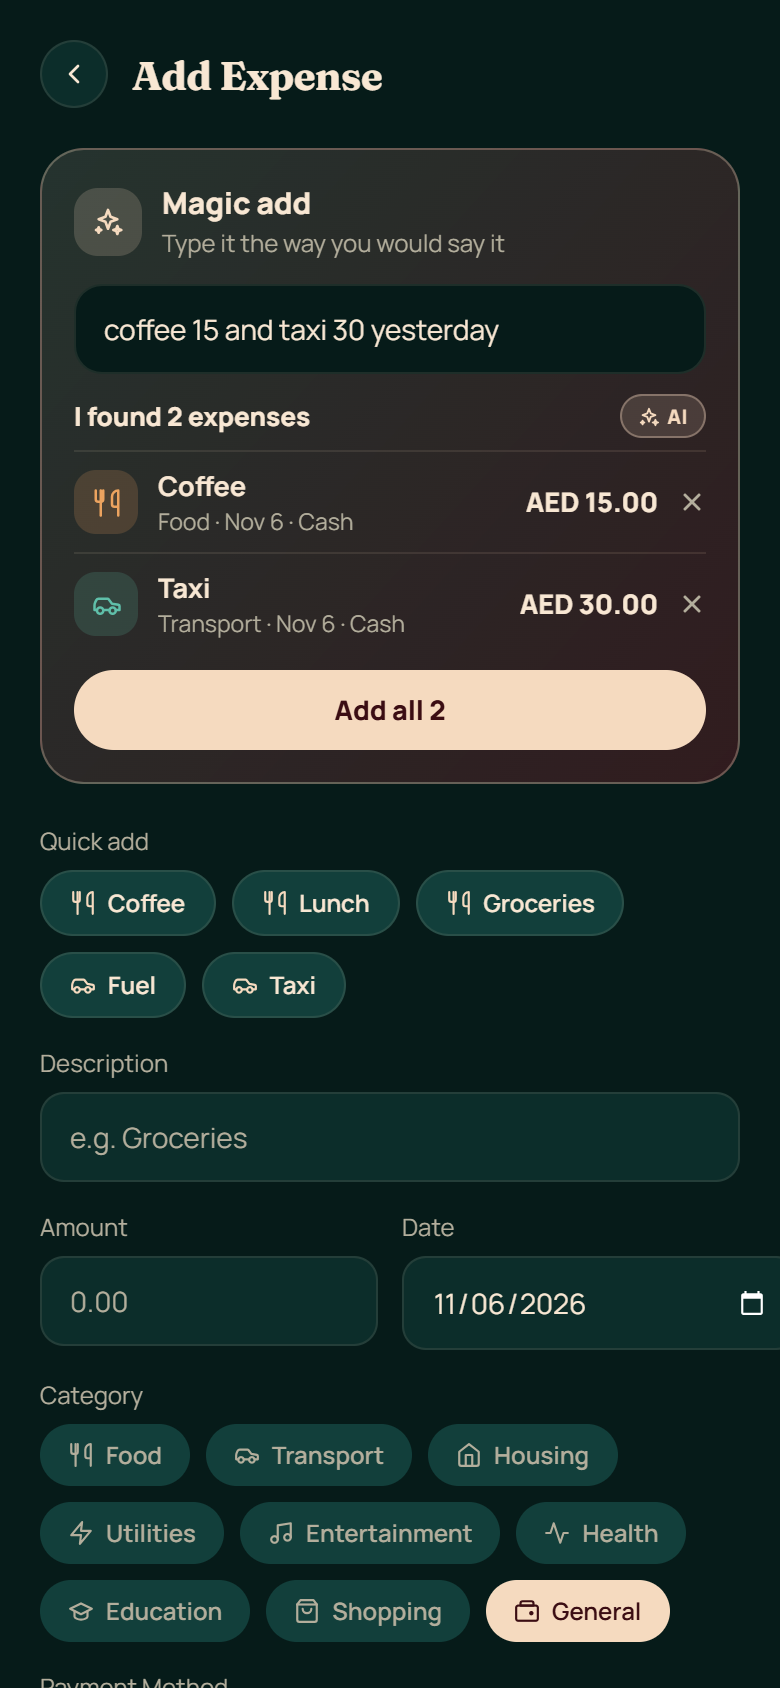
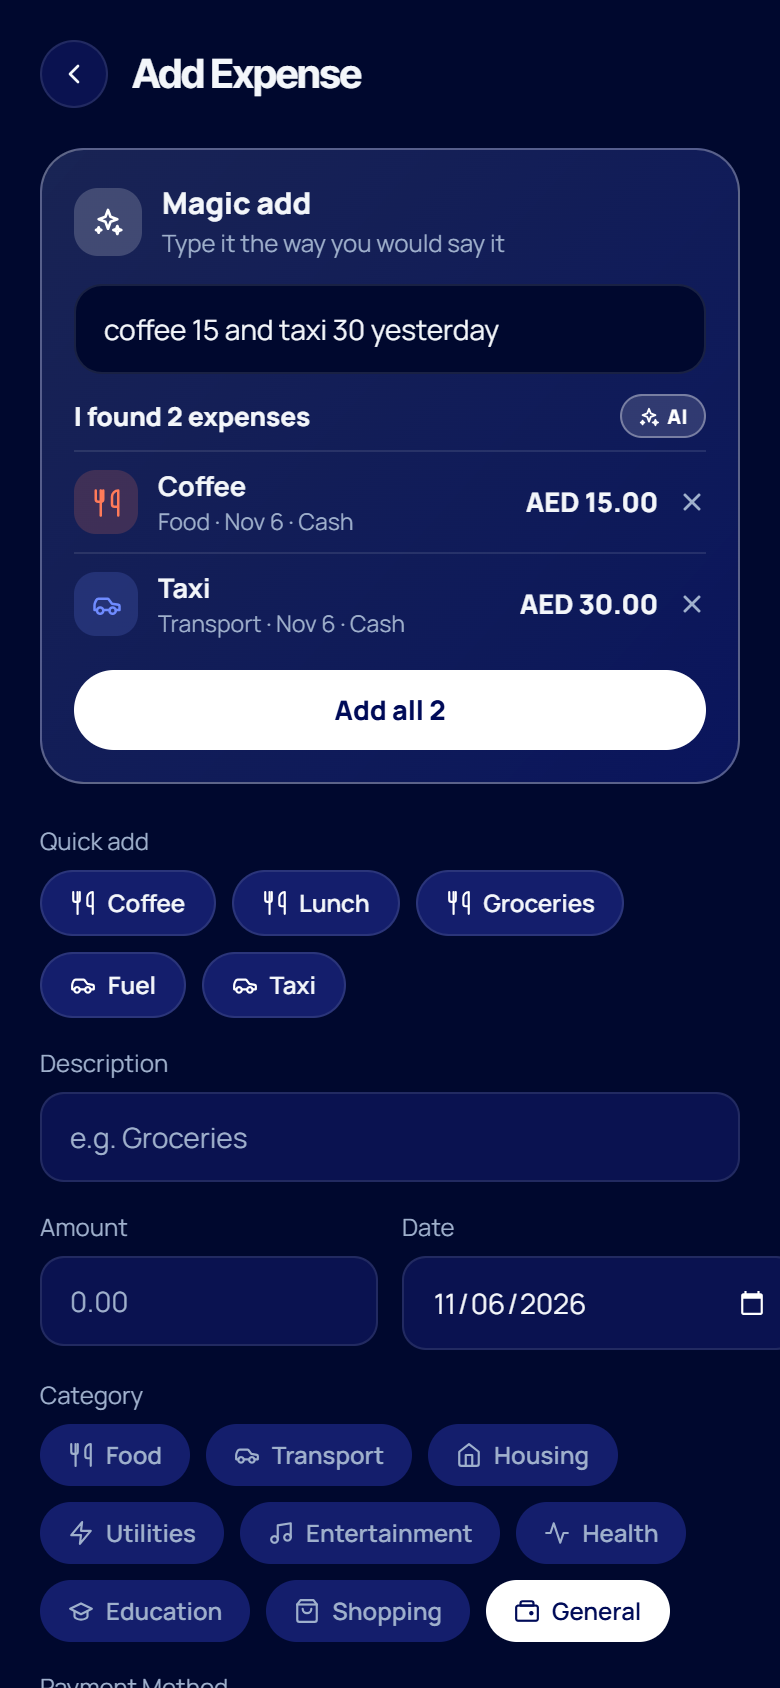
Restyle the app in a chalk, slate, midnight, royal and flare palette
Navy dark and chalk light schemes, royal hero card, flare red add button, tight sans display type for titles and amounts on web, recoloured category colours, app icons and login background, refreshed README screenshots.

diff --git a/mobile/src/theme/colors.ts b/mobile/src/theme/colors.ts
@@ -1,69 +1,75 @@
-// "Bordeaux & evergreen": a deep forest-green surface family, bordeaux for the hero moments, and warm cream for text
-// and primary actions (palette: bordeaux #6C151E, green #0F3D3A, cream #F5DABF). Every colour used by a screen comes
-// from here, so the whole app re-skins from this one file.
+// "Chalk, slate, midnight, royal, flare": a Swiss-style navy palette. Midnight and royal blue carry the surfaces and the
+// hero card, chalk and slate carry text, and flare red is kept for one loud accent (the add button). Palette: chalk
+// #FFFFFF / #E6EBF1, slate #A2B5CB / #6C829D, midnight #000B58 / #1A2258, royal #00139E / #1D2FB5, flare #FF1414 /
+// #FF6262. Every colour used by a screen comes from here, so the whole app re-skins from this one file.
 export const darkColors = {
-  bg: '#061b19',
-  surface: '#0c2d2a',
-  surface2: '#123f3b',
-  border: 'rgba(245,218,191,0.10)',
+  bg: '#00082e',
+  surface: '#0a1250',
+  surface2: '#141e6c',
+  border: 'rgba(230,235,241,0.11)',
   // Barely-there frosted fill for the glass-pill input fields: a solid `surface` reads as an opaque box; this stays
   // translucent so the auth background shows through faintly, matching the glass-card look.
-  fieldFill: 'rgba(245,218,191,0.06)',
-  text: '#f8e7d3',
-  textMuted: '#b3ae9c',
-  accent: '#f5dabf',
-  accentStrong: '#e9bf94',
-  accentContrast: '#3b0d13',
-  accent2: '#76d6b4',
-  danger: '#ff8f95',
-  dangerSoft: 'rgba(255,143,149,0.16)',
-  warn: '#f1bd6a',
-  success: '#7fd8a9',
-  // The AI surfaces (coach, magic add, ask) share one soft cream-to-bordeaux wash.
-  aiFrom: 'rgba(245,218,191,0.13)',
-  aiTo: 'rgba(140,28,42,0.32)',
-  heroFrom: '#8e1f2d',
-  heroTo: '#4d0d16',
-  tabBar: 'rgba(8,36,33,0.95)',
+  fieldFill: 'rgba(230,235,241,0.06)',
+  text: '#f3f6fa',
+  textMuted: '#9fb0cc',
+  accent: '#ffffff',
+  accentStrong: '#dfe6f1',
+  accentContrast: '#000b58',
+  accent2: '#8aa2ff',
+  // The one loud colour: the add button and its glow.
+  flare: '#ff1414',
+  flareStrong: '#d90f0f',
+  danger: '#ff6b6b',
+  dangerSoft: 'rgba(255,107,107,0.16)',
+  warn: '#ffc15c',
+  success: '#52deb0',
+  // The AI surfaces (coach, magic add, ask) share one soft periwinkle-to-royal wash.
+  aiFrom: 'rgba(138,162,255,0.18)',
+  aiTo: 'rgba(29,47,181,0.34)',
+  heroFrom: '#2539cc',
+  heroTo: '#00139e',
+  tabBar: 'rgba(7,15,72,0.95)',
 };
 
 export const lightColors = {
-  bg: '#fbf1e4',
-  surface: '#fffaf3',
-  surface2: '#f4e1ca',
-  border: 'rgba(108,21,30,0.11)',
-  fieldFill: 'rgba(108,21,30,0.04)',
-  text: '#2b0e12',
-  textMuted: '#7b5f58',
-  accent: '#6c151e',
-  accentStrong: '#52101a',
-  accentContrast: '#fff3e3',
-  accent2: '#0f3d3a',
-  danger: '#c0392b',
-  dangerSoft: 'rgba(192,57,43,0.12)',
-  warn: '#a45f00',
-  success: '#0f6b55',
-  aiFrom: 'rgba(108,21,30,0.11)',
-  aiTo: 'rgba(245,218,191,0.60)',
-  heroFrom: '#80202d',
-  heroTo: '#4d0d16',
-  tabBar: 'rgba(255,250,243,0.96)',
+  bg: '#eef2f7',
+  surface: '#ffffff',
+  surface2: '#e6ebf1',
+  border: 'rgba(0,11,88,0.10)',
+  fieldFill: 'rgba(0,11,88,0.04)',
+  text: '#000b58',
+  textMuted: '#52678b',
+  accent: '#00139e',
+  accentStrong: '#000b58',
+  accentContrast: '#ffffff',
+  accent2: '#1d2fb5',
+  flare: '#ff1414',
+  flareStrong: '#d90f0f',
+  danger: '#e01212',
+  dangerSoft: 'rgba(224,18,18,0.11)',
+  warn: '#a85d00',
+  success: '#0b7f58',
+  aiFrom: 'rgba(0,19,158,0.10)',
+  aiTo: 'rgba(162,181,203,0.38)',
+  heroFrom: '#1428b8',
+  heroTo: '#000b58',
+  tabBar: 'rgba(255,255,255,0.96)',
 };
 
 export type Colors = typeof darkColors;
 
 // One fixed colour per category, so a category looks the same on the donut chart, the history list and the filters.
-// Deliberately theme-invariant: warm, slightly muted jewel tones that sit well on both the green and cream backgrounds.
+// Deliberately theme-invariant: clear mid-tones that sit well on both the navy and the chalk backgrounds.
 export const CATEGORY_COLORS: Record<string, string> = {
-  Food: '#eca35f',
-  Transport: '#5fbfa9',
-  Housing: '#c79ad6',
-  Utilities: '#e6c66f',
-  Entertainment: '#f09db4',
-  Health: '#56c28f',
-  Education: '#8fb0d9',
-  Shopping: '#d9566a',
-  General: '#aa9f8e',
+  Food: '#ff7a59',
+  Transport: '#6f8bff',
+  Housing: '#a2b5cb',
+  Utilities: '#ffc857',
+  Entertainment: '#c58bff',
+  Health: '#4fdcae',
+  Education: '#4cc3ff',
+  Shopping: '#ff5c8a',
+  General: '#8394b3',
 };
 
 export function categoryColor(category: string): string {

diff --git a/mobile/src/screens/DashboardScreen.tsx b/mobile/src/screens/DashboardScreen.tsx
@@ -257,18 +257,18 @@ const makeStyles = (colors: Colors, topInset: number) => StyleSheet.create({
     boxShadow: `0px 12px 24px ${withAlpha(colors.heroFrom, 0.35)}`, elevation: 8,
   },
   hero: { borderRadius: 26, padding: 22, overflow: 'hidden' },
-  heroCircleA: { position: 'absolute', width: 190, height: 190, borderRadius: 95, right: -60, top: -80, backgroundColor: 'rgba(245,218,191,0.10)' },
-  heroCircleB: { position: 'absolute', width: 120, height: 120, borderRadius: 60, right: 40, bottom: -70, backgroundColor: 'rgba(245,218,191,0.07)' },
-  heroLabel: { color: 'rgba(245,218,191,0.80)', fontSize: 11, fontWeight: '800', letterSpacing: 1.2 },
-  heroValue: { color: '#fff1e0', fontSize: 38, fontWeight: '700', marginTop: 6, marginBottom: 18 },
-  heroTrack: { height: 8, borderRadius: 999, backgroundColor: 'rgba(245,218,191,0.22)', overflow: 'hidden' },
-  heroFill: { height: '100%', borderRadius: 999, backgroundColor: '#f5dabf' },
-  heroFillOver: { backgroundColor: '#ffb4c0' },
+  heroCircleA: { position: 'absolute', width: 190, height: 190, borderRadius: 95, right: -60, top: -80, backgroundColor: 'rgba(230,235,241,0.10)' },
+  heroCircleB: { position: 'absolute', width: 120, height: 120, borderRadius: 60, right: 40, bottom: -70, backgroundColor: 'rgba(230,235,241,0.07)' },
+  heroLabel: { color: 'rgba(230,235,241,0.80)', fontSize: 11, fontWeight: '800', letterSpacing: 1.2 },
+  heroValue: { color: '#ffffff', fontSize: 38, fontWeight: '800', marginTop: 6, marginBottom: 18 },
+  heroTrack: { height: 8, borderRadius: 999, backgroundColor: 'rgba(230,235,241,0.22)', overflow: 'hidden' },
+  heroFill: { height: '100%', borderRadius: 999, backgroundColor: '#ffffff' },
+  heroFillOver: { backgroundColor: '#ff8a8a' },
   heroMetaRow: { flexDirection: 'row', justifyContent: 'space-between', marginTop: 10 },
-  heroMeta: { color: 'rgba(245,218,191,0.85)', fontSize: 12 },
-  heroMetaStrong: { color: '#fff1e0', fontWeight: '800' },
+  heroMeta: { color: 'rgba(230,235,241,0.88)', fontSize: 12 },
+  heroMetaStrong: { color: '#ffffff', fontWeight: '800' },
   heroEmpty: { flexDirection: 'row', justifyContent: 'space-between', alignItems: 'center', flexWrap: 'wrap', gap: 6 },
-  heroLink: { color: '#fff1e0', fontWeight: '800', fontSize: 13, textDecorationLine: 'underline' },
+  heroLink: { color: '#ffffff', fontWeight: '800', fontSize: 13, textDecorationLine: 'underline' },
   coach: {
     flexDirection: 'row', alignItems: 'center', gap: 12, padding: 14, borderRadius: 20, marginBottom: 14,
     backgroundColor: colors.surface, borderWidth: 1, borderColor: withAlpha(colors.accent, 0.35),

diff --git a/mobile/src/hooks/useWebFont.ts b/mobile/src/hooks/useWebFont.ts
@@ -4,7 +4,7 @@ import { Platform } from 'react-native';
 const LINK_ID = 'auth-web-font';
 const STYLE_ID = 'app-web-font-style';
 
-// Loads Manrope (body) and Fraunces (display: titles and big amounts) from Google Fonts on web only — native (iOS/Android) keeps
+// Loads Manrope (body) and Inter Tight (display: titles and big amounts) from Google Fonts on web only — native (iOS/Android) keeps
 // the system font entirely untouched, so this can't affect the EAS/Android
 // build. It also sets Manrope as the font for every text element on web (react-native-web renders Text as
 // <div dir="auto">), so the whole app has one typeface instead of just the screens that opted in.
@@ -16,7 +16,7 @@ export function useWebFont() {
       link.id = LINK_ID;
       link.rel = 'stylesheet';
       link.href =
-        'https://fonts.googleapis.com/css2?family=Manrope:wght@400;500;600;700;800&family=Fraunces:opsz,wght@9..144,500;9..144,600;9..144,700&display=swap';
+        'https://fonts.googleapis.com/css2?family=Manrope:wght@400;500;600;700;800&family=Inter+Tight:wght@600;700;800&display=swap';
       document.head.appendChild(link);
     }
     if (!document.getElementById(STYLE_ID)) {
@@ -24,7 +24,7 @@ export function useWebFont() {
       style.id = STYLE_ID;
       style.textContent =
         "div[dir='auto']:not([data-display]), input, textarea, button { font-family: 'Manrope', system-ui, sans-serif !important; } " +
-        "[data-display] { font-family: 'Fraunces', Georgia, serif !important; letter-spacing: -0.01em; }";
+        "[data-display] { font-family: 'Inter Tight', 'Manrope', system-ui, sans-serif !important; letter-spacing: -0.025em; }";
       document.head.appendChild(style);
     }
   }, []);

diff --git a/mobile/src/components/DisplayText.tsx b/mobile/src/components/DisplayText.tsx
@@ -1,9 +1,10 @@
 import React from 'react';
 import { Platform, Text, TextProps } from 'react-native';
 
-// Serif display type for page titles and big amounts. On web it picks up Fraunces (see useWebFont); on native it
-// falls back to the platform serif, so no font files are bundled and the EAS build is untouched.
+// Display type for page titles and big amounts: tightly tracked, heavy grotesque. On web it picks up Inter Tight (see
+// useWebFont); on native it keeps the platform font with tighter tracking, so no font files are bundled and the EAS
+// build is untouched.
 export default function DisplayText({ style, ...rest }: TextProps) {
   const extra: Record<string, unknown> = Platform.OS === 'web' ? { dataSet: { display: '1' } } : {};
-  return <Text {...rest} {...extra} style={[{ fontFamily: Platform.select({ ios: 'Georgia', android: 'serif', default: 'serif' }) }, style]} />;
+  return <Text {...rest} {...extra} style={[{ letterSpacing: -0.6 }, style]} />;
 }

diff --git a/mobile/src/components/AuroraBackground.tsx b/mobile/src/components/AuroraBackground.tsx
@@ -9,8 +9,8 @@ export default function AuroraBackground() {
   const { colors, isDark } = useTheme();
   return (
     <View style={[StyleSheet.absoluteFill, { pointerEvents: 'none' }]} accessibilityElementsHidden importantForAccessibility="no-hide-descendants">
-      <GlowBlob size={340} color={colors.heroFrom} style={[styles.blob, styles.topRight, { opacity: isDark ? 0.5 : 0.22 }]} />
-      <GlowBlob size={280} color={isDark ? '#1f8a78' : colors.accent2} style={[styles.blob, styles.midLeft, { opacity: isDark ? 0.28 : 0.12 }]} />
+      <GlowBlob size={340} color={colors.heroFrom} style={[styles.blob, styles.topRight, { opacity: isDark ? 0.6 : 0.22 }]} />
+      <GlowBlob size={280} color={isDark ? '#4b66f0' : colors.accent2} style={[styles.blob, styles.midLeft, { opacity: isDark ? 0.3 : 0.12 }]} />
     </View>
   );
 }

diff --git a/mobile/src/navigation/AppTabs.tsx b/mobile/src/navigation/AppTabs.tsx
@@ -62,10 +62,10 @@ function CustomTabBar({ state, navigation }: BottomTabBarProps) {
       {state.routes.slice(0, 2).map(renderTab)}
 
       <View style={styles.fabWrap}>
-        <PulseGlow color={colors.heroFrom} size={68} style={styles.fabGlow} />
+        <PulseGlow color={colors.flare} size={68} style={styles.fabGlow} />
         <AnimatedPressable scaleTo={0.88} onPress={() => parent?.navigate('ExpenseForm')} accessibilityLabel="Add expense">
-          <LinearGradient colors={[colors.accent, colors.accentStrong]} style={styles.fab}>
-            <PlusIcon size={24} color={colors.accentContrast} />
+          <LinearGradient colors={[colors.flare, colors.flareStrong]} style={styles.fab}>
+            <PlusIcon size={24} color="#ffffff" />
           </LinearGradient>
         </AnimatedPressable>
       </View>

diff --git a/mobile/src/screens/ForgotPasswordScreen.tsx b/mobile/src/screens/ForgotPasswordScreen.tsx
@@ -153,7 +153,7 @@ const makeStyles = (colors: Colors) => StyleSheet.create({
   cardContent: { padding: 26 },
   header: { marginBottom: 20, gap: 6, alignItems: 'center' },
   logoIcon: {
-    width: 42, height: 42, borderRadius: 13, backgroundColor: '#06201d',
+    width: 42, height: 42, borderRadius: 13, backgroundColor: '#00082e',
     alignItems: 'center', justifyContent: 'center', marginBottom: 8,
   },
   logoImage: { width: 26, height: 26 },

diff --git a/mobile/src/screens/LoginScreen.tsx b/mobile/src/screens/LoginScreen.tsx
@@ -213,7 +213,7 @@ const makeStyles = (colors: Colors) => StyleSheet.create({
   cardContent: { padding: 26 },
   header: { marginBottom: 20, gap: 6, alignItems: 'center' },
   logoIcon: {
-    width: 42, height: 42, borderRadius: 13, backgroundColor: '#06201d',
+    width: 42, height: 42, borderRadius: 13, backgroundColor: '#00082e',
     alignItems: 'center', justifyContent: 'center', marginBottom: 8,
   },
   logoImage: { width: 26, height: 26 },

diff --git a/mobile/src/screens/RegisterScreen.tsx b/mobile/src/screens/RegisterScreen.tsx
@@ -236,7 +236,7 @@ const makeStyles = (colors: Colors) => StyleSheet.create({
   cardContent: { padding: 26 },
   header: { marginBottom: 20, gap: 6, alignItems: 'center' },
   logoIcon: {
-    width: 42, height: 42, borderRadius: 13, backgroundColor: '#06201d',
+    width: 42, height: 42, borderRadius: 13, backgroundColor: '#00082e',
     alignItems: 'center', justifyContent: 'center', marginBottom: 8,
   },
   logoImage: { width: 26, height: 26 },

diff --git a/mobile/src/screens/ResetPasswordScreen.tsx b/mobile/src/screens/ResetPasswordScreen.tsx
@@ -200,7 +200,7 @@ const makeStyles = (colors: Colors) => StyleSheet.create({
   cardContent: { padding: 26 },
   header: { marginBottom: 20, gap: 6, alignItems: 'center' },
   logoIcon: {
-    width: 42, height: 42, borderRadius: 13, backgroundColor: '#06201d',
+    width: 42, height: 42, borderRadius: 13, backgroundColor: '#00082e',
     alignItems: 'center', justifyContent: 'center', marginBottom: 8,
   },
   logoImage: { width: 26, height: 26 },

diff --git a/mobile/src/components/icons.tsx b/mobile/src/components/icons.tsx
@@ -6,7 +6,7 @@ interface IconProps {
   color?: string;
 }
 
-const base = (size = 20, color = '#f8e7d3') => ({
+const base = (size = 20, color = '#f3f6fa') => ({
   width: size,
   height: size,
   viewBox: '0 0 24 24',
